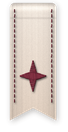
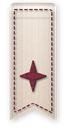
feat(bibliotheque): surpiqûre sur tout le tour des signets, V compris (#70)

Changed region(s): [[0.1765, 0.0606, 0.7941, 0.8788]]

diff --git a/scripts/generate-ribbon-bookmarks.py b/scripts/generate-ribbon-bookmarks.py
@@ -252,15 +252,39 @@ def satin_stitches(needle, kind):
 
 
 def running_stitch_border(needle):
-    """Surpiqûre au point avant le long des deux bords du ruban, jusqu'au V."""
+    """Surpiqûre au point avant sur TOUT le tour du ruban : haut, côtés, et le V."""
+    i = BORDER_INSET
+    left, right = RIBBON_X + i, RIBBON_X + RIBBON_W - i
+    center = RIBBON_X + RIBBON_W / 2
     top = TOP + 3.2
-    bottom = TAIL_END - NOTCH - 1.2
-    for x in (RIBBON_X + BORDER_INSET, RIBBON_X + RIBBON_W - BORDER_INSET):
-        y = top
-        while y + 1.5 <= bottom:
-            jitter = (needle.rng.random() - 0.5) * 0.12
-            needle.thread((x + jitter, y), (x - jitter, y + 1.5), 0.6)
-            y += 1.5 + 1.0
+    # Le V : les deux pointes descendent à TAIL_END, le creux remonte de NOTCH.
+    # La ligne intérieure suit ces bords à `i` de distance (la pente du V écarte un
+    # peu plus verticalement).
+    slope = NOTCH / (RIBBON_W / 2)
+    lift = i * math.sqrt(1 + slope * slope)
+    tail = TAIL_END - lift - i * slope
+    notch = TAIL_END - NOTCH - lift
+    outline = [(left, top), (right, top), (right, tail), (center, notch), (left, tail), (left, top)]
+
+    # Fil de 1,5 pt, espace de 1 pt, posé le long du contour fermé
+    lengths = [0.0]
+    for (xa, ya), (xb, yb) in zip(outline, outline[1:]):
+        lengths.append(lengths[-1] + math.hypot(xb - xa, yb - ya))
+    total = lengths[-1]
+    period = 2.5
+    count = int(total / period)
+    period = total / count  # tombe juste : pas de demi-point à la jonction
+
+    def at(d):
+        d %= total
+        k = max(j for j in range(len(lengths) - 1) if lengths[j] <= d)
+        (xa, ya), (xb, yb) = outline[k], outline[k + 1]
+        t = (d - lengths[k]) / max(1e-6, lengths[k + 1] - lengths[k])
+        return (xa + (xb - xa) * t, ya + (yb - ya) * t)
+
+    for n in range(count):
+        start = n * period
+        needle.thread(at(start), at(start + period * 0.6), 0.6)
 
 
 def relief_and_shadow(color, alpha, strength):

diff --git a/DESIGN.md b/DESIGN.md
@@ -611,8 +611,9 @@ passé**. C'est la direction « maille » : du textile réaliste, pas un pictogr
     trait, deux brins visibles, reflet soyeux du fil à broder, bord rembourré,
     ombre des fils sur le ruban ; chaque branche d'un motif est brodée à part,
     fils perpendiculaires à elle (un tracé arrondi au coin effilochait les fils) ;
-  - **surpiqûre au point avant** le long des deux bords du ruban, dans le fil du
-    motif : c'est elle qui dit « fait main » au premier coup d'œil.
+  - **surpiqûre au point avant sur tout le tour** du ruban — haut, côtés et le long
+    du V —, dans le fil du motif, à 2,2 pt du bord : c'est elle qui dit « fait main »
+    au premier coup d'œil.
 - Ruban de 23 pt de large, pour que la broderie se lise à taille réelle.
 - **Images calculées** par `scripts/generate-ribbon-bookmarks.py` (@2x, @3x) : pour
   une nouvelle couleur ou un nouveau motif, ajouter une variante au script, ne pas
